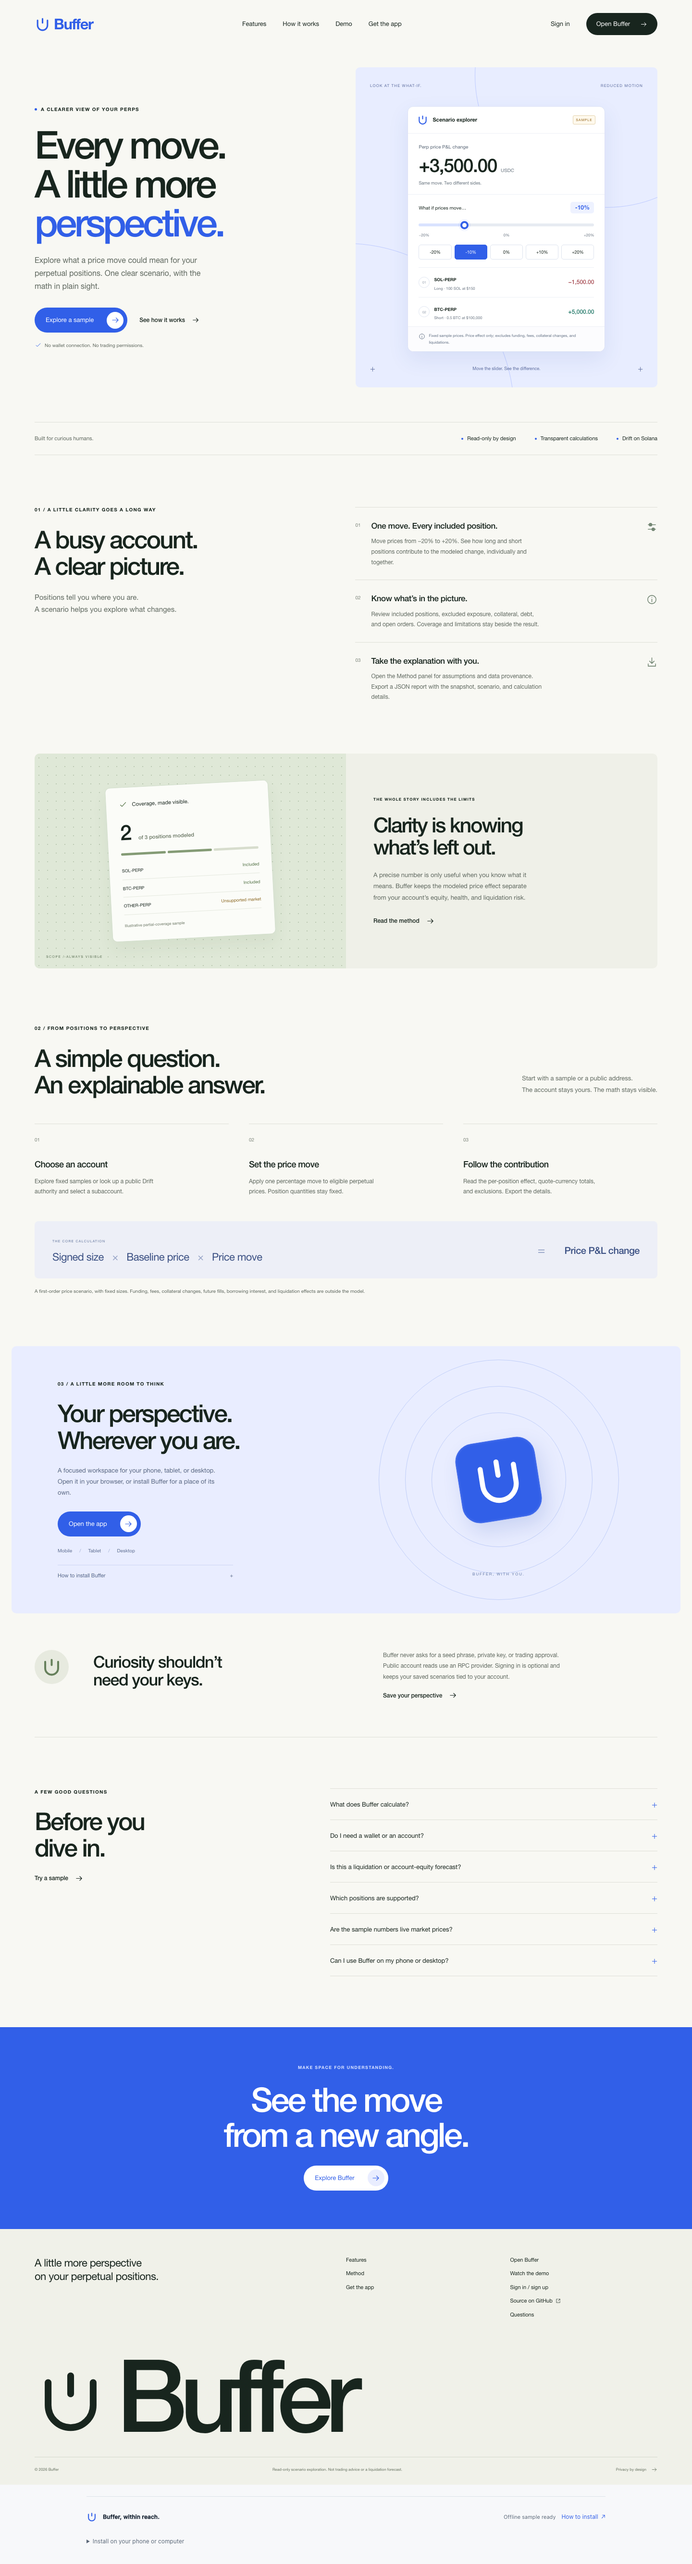
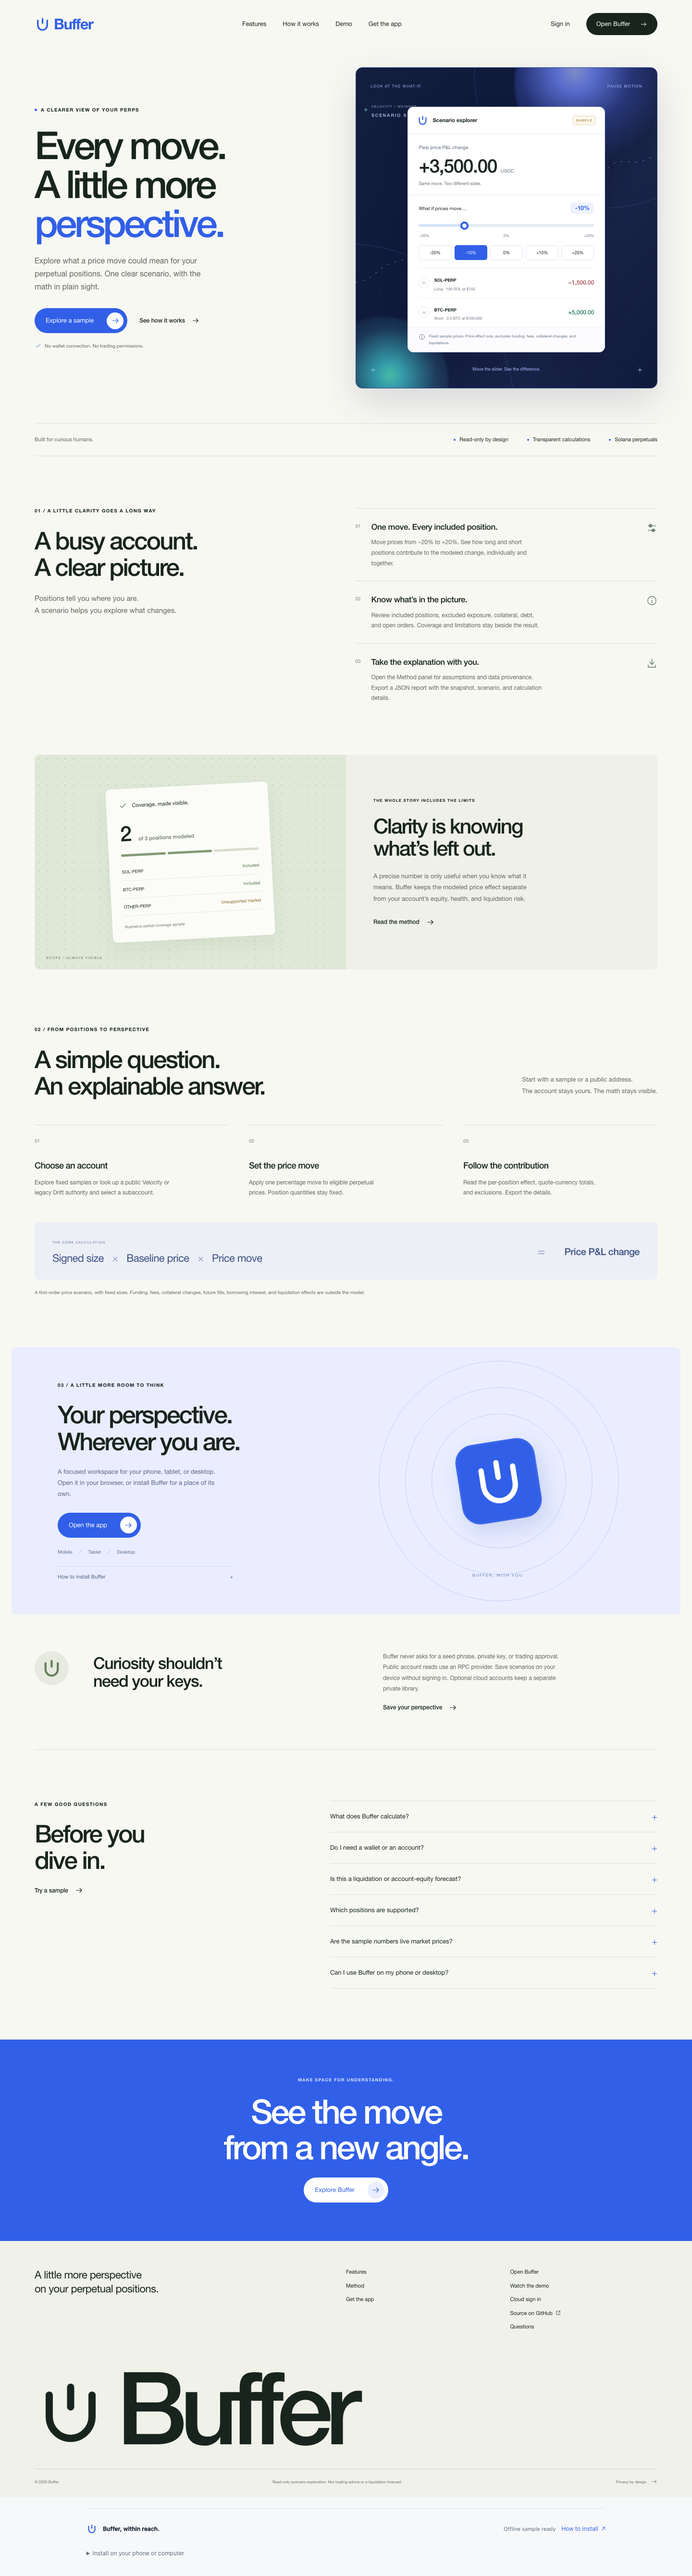
Refresh landing page motion and production domain

diff --git a/src/app/landing.css b/src/app/landing.css
@@ -38,17 +38,32 @@
 .buffer-text-link:hover { color: var(--cobalt); }
 .buffer-hero-note { display: flex; align-items: center; gap: 6px; font-size: 10px; color: var(--quiet); margin-top: 19px; }
 .buffer-hero-note svg { color: var(--cobalt); }
-.buffer-hero-stage { position: relative; display: flex; flex-direction: column; align-items: center; justify-content: center; background: #e8edff; padding: 26px 30px; border-radius: 9px; overflow: hidden; min-height: 589px; }
-.buffer-stage-orbit { position: absolute; width: 550px; height: 550px; border: 1px solid #bdcaff; border-radius: 50%; pointer-events: none; animation: buffer-orbit 18s ease-in-out infinite alternate; }
+.buffer-hero-stage { position: relative; display: flex; flex-direction: column; align-items: center; justify-content: center; background: #101a3b; border: 1px solid #2c4286; padding: 26px 30px; border-radius: 14px; overflow: hidden; min-height: 589px; isolation: isolate; box-shadow: 0 28px 80px #101a3b24; }
+.buffer-hero-stage::after { content: ""; position: absolute; inset: 0; z-index: 0; pointer-events: none; background: linear-gradient(120deg, #ffffff05, transparent 38%, #91a7ff12 72%, transparent); }
+.buffer-shader { position: absolute; inset: 0; z-index: 0; overflow: hidden; pointer-events: none; }
+.buffer-shader-grid { position: absolute; left: -12%; right: -12%; bottom: -28%; height: 73%; transform: perspective(500px) rotateX(58deg) scale(1.55); transform-origin: center bottom; opacity: .22; background-image: linear-gradient(#9fb4ff2e 1px, transparent 1px), linear-gradient(90deg, #9fb4ff2e 1px, transparent 1px); background-size: 39px 39px; -webkit-mask-image: linear-gradient(to top, #000, transparent 88%); mask-image: linear-gradient(to top, #000, transparent 88%); animation: buffer-grid-drift 14s linear infinite; }
+.buffer-shader-orb { position: absolute; border-radius: 50%; filter: blur(2px); mix-blend-mode: screen; opacity: .74; }
+.buffer-shader-orb-one { width: 330px; height: 330px; top: -132px; right: -34px; background: radial-gradient(circle at 38% 42%, #a0b0ff 0 2%, #7187ff 15%, #536dff60 42%, transparent 70%); animation: buffer-shader-float-one 12s ease-in-out infinite alternate; }
+.buffer-shader-orb-two { width: 270px; height: 270px; bottom: -122px; left: -78px; background: radial-gradient(circle at 55% 45%, #55f2cd 0 2%, #41c9d0 13%, #3d8fae55 47%, transparent 72%); animation: buffer-shader-float-two 15s ease-in-out infinite alternate; }
+.buffer-shader-orb-three { width: 180px; height: 180px; top: 35%; left: 38%; background: radial-gradient(circle, #d3e0ff 0 1.5%, #93b5ff80 18%, transparent 72%); opacity: .33; animation: buffer-shader-pulse 7s ease-in-out infinite; }
+.buffer-shader-line { position: absolute; width: 112%; height: 44%; left: -6%; top: 33%; overflow: visible; opacity: .5; }
+.buffer-shader-line path { fill: none; stroke: #b9c8ff; stroke-width: 1.1; stroke-linecap: round; stroke-dasharray: 2 12; animation: buffer-shader-dash 18s linear infinite; }
+.buffer-shader-line path + path { stroke: #5ce6ce; opacity: .42; stroke-dasharray: 1 16; animation-duration: 24s; animation-direction: reverse; }
+.buffer-shader-readout { position: absolute; top: 75px; left: 32px; display: grid; gap: 6px; color: #c2ceff; letter-spacing: 1.35px; }
+.buffer-shader-readout span { font-size: 7px; opacity: .8; }
+.buffer-shader-readout strong { font-size: 9px; font-weight: 500; letter-spacing: 2px; }
+.buffer-shader-readout i { position: absolute; left: -16px; top: 1px; color: #61e2cc; font-size: 14px; font-style: normal; }
+.buffer-stage-orbit { position: absolute; width: 550px; height: 550px; border: 1px solid #91a8ff35; border-radius: 50%; pointer-events: none; animation: buffer-orbit 18s ease-in-out infinite alternate; z-index: 0; }
 .buffer-stage-orbit-one { top: -258px; right: -170px; }
 .buffer-stage-orbit-two { width: 700px; height: 700px; bottom: -400px; left: -370px; animation-delay: -9s; }
-.buffer-stage-caption { display: flex; justify-content: space-between; width: 100%; position: relative; z-index: 1; font-size: 8px; letter-spacing: 1.15px; color: #5c6c9e; }
+.buffer-stage-caption { display: flex; justify-content: space-between; width: 100%; position: relative; z-index: 2; font-size: 8px; letter-spacing: 1.15px; color: #aabaff; }
 .buffer-stage-caption button { background: none; border: 0; color: inherit; font-size: inherit; letter-spacing: inherit; padding: 0; min-height: 24px; }
 .buffer-stage-caption button:disabled { opacity: 1; }
 .buffer-stage-caption > span { align-self: center; }
-.buffer-stage-bottom { display: flex; justify-content: space-between; align-items: center; width: 100%; font-size: 9px; color: #5c6c9e; position: relative; }
+.buffer-stage-bottom { display: flex; justify-content: space-between; align-items: center; width: 100%; font-size: 9px; color: #aabaff; position: relative; z-index: 2; }
 .buffer-tiny-cross { font-size: 18px; font-weight: 300; }
-.buffer-preview { position: relative; width: 100%; max-width: 411px; background: #fff; border: 1px solid #dbe1f5; border-radius: 12px; box-shadow: 0 16px 44px #3554a018; margin: 31px 0 21px; animation: buffer-arrive 650ms ease-out both; }
+.buffer-preview { position: relative; z-index: 2; width: 100%; max-width: 411px; background: #fff; border: 1px solid #dbe1f5; border-radius: 12px; box-shadow: 0 20px 52px #050b241f; margin: 31px 0 21px; animation: buffer-arrive 650ms ease-out both; transition: transform 220ms ease, box-shadow 220ms ease; }
+.buffer-preview:hover { transform: translateY(-5px); box-shadow: 0 26px 66px #050b2435; }
 .buffer-preview-top { display: flex; align-items: center; justify-content: space-between; padding: 16px 19px; border-bottom: 1px solid #edf0f6; }
 .buffer-preview-title { display: flex; align-items: center; gap: 9px; font-size: 11px; font-weight: 550; }
 .buffer-preview-title svg { color: var(--cobalt); }
@@ -181,7 +196,13 @@
 @keyframes buffer-arrive { from { opacity: 0; transform: translateY(10px); } to { opacity: 1; transform: translateY(0); } }
 @keyframes buffer-orbit { to { transform: translate(20px, 15px) scale(1.04); } }
 @keyframes buffer-float { 50% { transform: translateY(-10px) rotate(-6deg); } }
+@keyframes buffer-grid-drift { to { background-position: 0 39px, 39px 0; } }
+@keyframes buffer-shader-float-one { to { transform: translate(-22px, 24px) scale(1.13); } }
+@keyframes buffer-shader-float-two { to { transform: translate(31px, -20px) scale(1.08); } }
+@keyframes buffer-shader-pulse { 50% { transform: scale(1.22); opacity: .47; } }
+@keyframes buffer-shader-dash { to { stroke-dashoffset: -240; } }
 .buffer-site[data-motion=paused] .buffer-stage-orbit, .buffer-site[data-motion=paused] .buffer-app-icon { animation-play-state: paused; }
+.buffer-site[data-motion=paused] .buffer-shader-grid, .buffer-site[data-motion=paused] .buffer-shader-orb, .buffer-site[data-motion=paused] .buffer-shader-line path { animation-play-state: paused; }
 @media (max-width: 1392px) {
   .buffer-facts, .buffer-section, .buffer-coverage-story, .buffer-privacy { margin-left: 48px; margin-right: 48px; }
   .buffer-install { margin-left: 24px; margin-right: 24px; padding-left: 48px; padding-right: 48px; }

diff --git a/src/components/Landing.tsx b/src/components/Landing.tsx
@@ -122,6 +122,17 @@ export default function Landing() {
             <div className="buffer-hero-note"><Icon name="check" size={15} /> No wallet connection. No trading permissions.</div>
           </div>
           <div className="buffer-hero-stage">
+            <div className="buffer-shader" aria-hidden="true">
+              <div className="buffer-shader-grid" />
+              <div className="buffer-shader-orb buffer-shader-orb-one" />
+              <div className="buffer-shader-orb buffer-shader-orb-two" />
+              <div className="buffer-shader-orb buffer-shader-orb-three" />
+              <svg className="buffer-shader-line" viewBox="0 0 640 260" preserveAspectRatio="none">
+                <path d="M-20 214C30 195 47 208 75 181s54-11 76-42 43-2 66-30 41-3 62-42 39-4 59-25 38-9 57-17 34-2 54-19 44 6 65-17 46-1 75-16 54 2 83-16" />
+                <path d="M-20 234C36 214 55 235 90 205s57-5 84-47 43 1 73-37 44-6 65-39 46 0 67-30 34 0 56-19 40-8 63-29 46 0 69-14 50-5 77-22" />
+              </svg>
+              <div className="buffer-shader-readout"><span>VELOCITY / MAINNET</span><strong>SCENARIO SIGNAL</strong><i>+</i></div>
+            </div>
             <div className="buffer-stage-orbit buffer-stage-orbit-one" aria-hidden="true" /><div className="buffer-stage-orbit buffer-stage-orbit-two" aria-hidden="true" />
             <div className="buffer-stage-caption"><span>LOOK AT THE WHAT-IF.</span><button type="button" disabled={reducedMotion} onClick={() => setMotionPaused(!motionPaused)} aria-pressed={motionPaused || reducedMotion}>{reducedMotion ? "REDUCED MOTION" : motionPaused ? "PLAY MOTION" : "PAUSE MOTION"}</button></div>
             <ScenarioPreview />

diff --git a/docs/DESIGN.md b/docs/DESIGN.md
@@ -4,7 +4,7 @@ Research and implementation date: September 12, 2026.
 
 ## Recommended MotionSites starting point
 
-**[USD Halo](https://motionsites.ai/?prompt=halo-usd-landing) is the best starting point for Buffer’s landing page among the prompts inspected.** Its offwhite canvas, large editorial type, rounded product stage, and restrained calls to action fit a product that should feel calm and understandable. Buffer’s implementation is original: its established cobalt U-shaped gauge identity, interactive scenario preview, copy, section composition, and calculations replace Halo’s identity and content.
+**[USD Halo](https://motionsites.ai/?prompt=halo-usd-landing) remains the best starting point for Buffer’s landing page among the prompts inspected.** Its offwhite canvas, large editorial type, rounded product stage, and restrained calls to action fit a product that should feel calm and understandable. The hero now adds a native CSS/SVG shader layer inspired by the motion language of [Animated Shader Hero](https://motionsites.org/prompts/ravikatiyar162-animated-shader-hero), while Buffer’s established cobalt U-shaped gauge identity, interactive scenario preview, copy, section composition, and calculations remain original.
 
 The MotionSites integration returned full prompt text for all the selections below. “Free” and “premium” reflect the catalog at research time; access may change. These are design prompts, not a guarantee of a production-ready application or working integrations.
 
@@ -58,7 +58,7 @@ These are visual references only. No Dribbble artwork, layout source files, or p
 - **Palette:** cobalt `#315fe8`, offwhite `#f8f8f3`, dark ink `#18251e`, pale blue `#e8edff`, and quiet sage for coverage. Positive and negative sample contributions have text signs as well as color.
 - **Type:** local system Helvetica/Arial stack; no externally hosted commercial fonts or unverified font downloads.
 - **Composition:** a two-column introduction with a functioning preview; editorial feature rows; a coverage story; three method steps; browser-install guidance; privacy explanation; FAQ; a final action and oversized wordmark.
-- **Motion:** original CSS orbit and app-mark movement; reduced-motion media query, a server-safe preference subscription, and manual pause support. No required timed splash screen.
+- **Motion:** original CSS orbit, shader grid, animated signal line, and app-mark movement; reduced-motion media query, a server-safe preference subscription, and manual pause support. No required timed splash screen.
 - **Meaning:** the hero calculation uses the same `getSampleSnapshot`, `calculateScenario`, and `formatDecimal` functions as the app. All illustrative numbers are labeled as samples; live Velocity reads show their protocol, quote currency, current slots, and freshness.
 - **Navigation:** real links to `/app`, `/auth`, installation guidance, method, FAQ, and the public source repository. Native disclosure elements support FAQ and mobile navigation. The live example is a direct call to action; no wallet connection is required.
 

diff --git a/docs/DEPLOYMENT.md b/docs/DEPLOYMENT.md
@@ -29,7 +29,7 @@ Create or use the dedicated Buffer project **`vhbngdatlowfnwaymvuq`** in **opera
 In Auth settings:
 
 1. Keep the email provider available for existing confirmed accounts, but leave `NEXT_PUBLIC_AUTH_EMAIL_READY=false` until delivery is ready.
-2. Set Site URL to `https://buffer-lovat.vercel.app` and allow exactly `https://buffer-lovat.vercel.app/auth`; add `http://127.0.0.1:3001/auth` for local development.
+2. Set Site URL to `https://bufferonsolana.vercel.app` and allow `https://bufferonsolana.vercel.app/auth`; keep `https://buffer-lovat.vercel.app/auth` during the alias transition and add `http://127.0.0.1:3001/auth` plus `http://localhost:3001/auth` for local development.
 3. Configure a minimum 12-character password, leaked-password protection, and production SMTP delivery. The form enforces 12 characters for new passwords, but server-side policy must also enforce it.
 4. Set the two public environment variables and rebuild.
 5. Verify confirmed signup, login, recovery, logout, save/download/delete, and cross-user isolation with dedicated disposable accounts. Check Supabase security and performance advisors.
@@ -45,7 +45,7 @@ Confirmed-account password sign-in and private report CRUD work with disposable 
 
 ## Vercel
 
-The Vercel project is `operatoruplift/buffer`, linked to [the public source repository](https://github.com/operatoruplift/buffer), with the production alias [buffer-lovat.vercel.app](https://buffer-lovat.vercel.app). Production, Preview, and Development contain `SOLANA_RPC_URL`, the two public Supabase variables, and an explicit `NEXT_PUBLIC_AUTH_EMAIL_READY=false` config value. Use the Next.js framework setting in `vercel.json`, Node route execution, and a 30-second function duration. Do not use static export or edge-only hosting for the RPC routes.
+The Vercel project is `operatoruplift/buffer`, linked to [the public source repository](https://github.com/operatoruplift/buffer), with the production alias [bufferonsolana.vercel.app](https://bufferonsolana.vercel.app). Production, Preview, and Development contain `SOLANA_RPC_URL`, the two public Supabase variables, and an explicit `NEXT_PUBLIC_AUTH_EMAIL_READY=false` config value. Use the Next.js framework setting in `vercel.json`, Node route execution, and a 30-second function duration. Do not use static export or edge-only hosting for the RPC routes.
 
 Build with `npm ci` and `npm run build`. Configure server-only `SOLANA_RPC_URL` and the two public Supabase variables in the intended Vercel environments. Redeploy after changing them. The initial RPC is Solana's shared mainnet endpoint; it is suitable for evaluation but has no application-specific capacity guarantee.
 

diff --git a/docs/SUBMISSION.md b/docs/SUBMISSION.md
@@ -2,7 +2,7 @@
 
 **Last updated:** September 12, 2026.
 
-[Website](https://buffer-lovat.vercel.app) · [Interactive app](https://buffer-lovat.vercel.app/app) · [Demo and films](https://buffer-lovat.vercel.app/demo) · [Public GitHub repository](https://github.com/operatoruplift/buffer)
+[Website](https://bufferonsolana.vercel.app) · [Interactive app](https://bufferonsolana.vercel.app/app) · [Demo and films](https://bufferonsolana.vercel.app/demo) · [Public GitHub repository](https://github.com/operatoruplift/buffer)
 
 ## Short description
 
@@ -30,10 +30,10 @@ Built with Next.js, React, TypeScript, precise decimal arithmetic, the official 
 
 | Asset | Contents |
 | --- | --- |
-| [Interactive explorer](https://buffer-lovat.vercel.app/app) | Live Velocity example, explicit subaccount choice, deterministic samples, scenario slider, coverage, Method, device save, and JSON export. |
-| [Product demo](https://buffer-lovat.vercel.app/demo#demo) | About 88 seconds of the actual working sample journey. |
-| [Higgsfield pitch](https://buffer-lovat.vercel.app/demo#pitch) | About 62 seconds, combining generated brand motion with authentic interface capture. |
-| [Technical walkthrough](https://buffer-lovat.vercel.app/demo#technical) | About 124 seconds on provider boundaries, math, coverage, freshness, and reproducibility. |
+| [Interactive explorer](https://bufferonsolana.vercel.app/app) | Live Velocity example, explicit subaccount choice, deterministic samples, scenario slider, coverage, Method, device save, and JSON export. |
+| [Product demo](https://bufferonsolana.vercel.app/demo#demo) | About 88 seconds of the actual working sample journey. |
+| [Higgsfield pitch](https://bufferonsolana.vercel.app/demo#pitch) | About 62 seconds, combining generated brand motion with authentic interface capture. |
+| [Technical walkthrough](https://bufferonsolana.vercel.app/demo#technical) | About 124 seconds on provider boundaries, math, coverage, freshness, and reproducibility. |
 
 [Video provenance, captions, transcripts, and source materials](VIDEO.md) identify the generation job and production checks. The films show deterministic fixtures; the live example is demonstrated in the interactive app. [Full product descriptions](DESCRIPTION.md) provide reusable Markdown copy.
 

diff --git a/docs/VERIFICATION.md b/docs/VERIFICATION.md
@@ -10,7 +10,7 @@
 | TypeScript and ESLint | Passed on the current working tree. |
 | Velocity decoder fixtures | Passed for current State, SOL/BTC/ETH perp markets, USDT spot identity, Pyth Lazer oracle buffers, PDA derivation, and the request-owned loader. |
 | Local judge-experience browser run | **16 passed** across the new quick-start guide, scenario-first mobile layout, device reports, PWA, website, and API-failure paths. |
-| Vercel public routes and media | Passed on `https://buffer-lovat.vercel.app`: `/`, `/app`, `/auth`, `/demo`, manifest, service worker, USDT artwork, and all three MP4s returned successfully after the Velocity deployment. |
+| Vercel public routes and media | Passed on `https://bufferonsolana.vercel.app`: `/`, `/app`, `/auth`, `/demo`, manifest, service worker, USDT artwork, and all three MP4s returned successfully after the Velocity deployment. |
 | Supabase database | Dedicated Buffer project and both saved-report migrations verified; owner RLS, constraints, and private report CRUD passed. |
 | Authentication | Confirmed-account password sign-in and report operations passed with disposable fixtures. Public signup and recovery remain gated until SMTP and Auth settings are verified. |
 

diff --git a/README.md b/README.md
@@ -4,7 +4,7 @@
 
 **Last updated:** September 12, 2026.
 
-[Website](https://buffer-lovat.vercel.app) · [Open the app](https://buffer-lovat.vercel.app/app) · [Watch the demos](https://buffer-lovat.vercel.app/demo) · [Public source](https://github.com/operatoruplift/buffer)
+[Website](https://bufferonsolana.vercel.app) · [Open the app](https://bufferonsolana.vercel.app/app) · [Watch the demos](https://bufferonsolana.vercel.app/demo) · [Public source](https://github.com/operatoruplift/buffer)
 
 Paste a public authority, select one Velocity subaccount, and explore a shared −20% to +20% price move on eligible SOL, BTC, and ETH perpetual positions. The current Velocity deployment settles in USDT; baseline SDK metrics remain USD. Buffer keeps the current baseline separate from modeled price P&L and explains what is excluded. Three deterministic samples work immediately, without an account or RPC configuration. The **Explore a live account** button opens a public example without a wallet connection.
 
